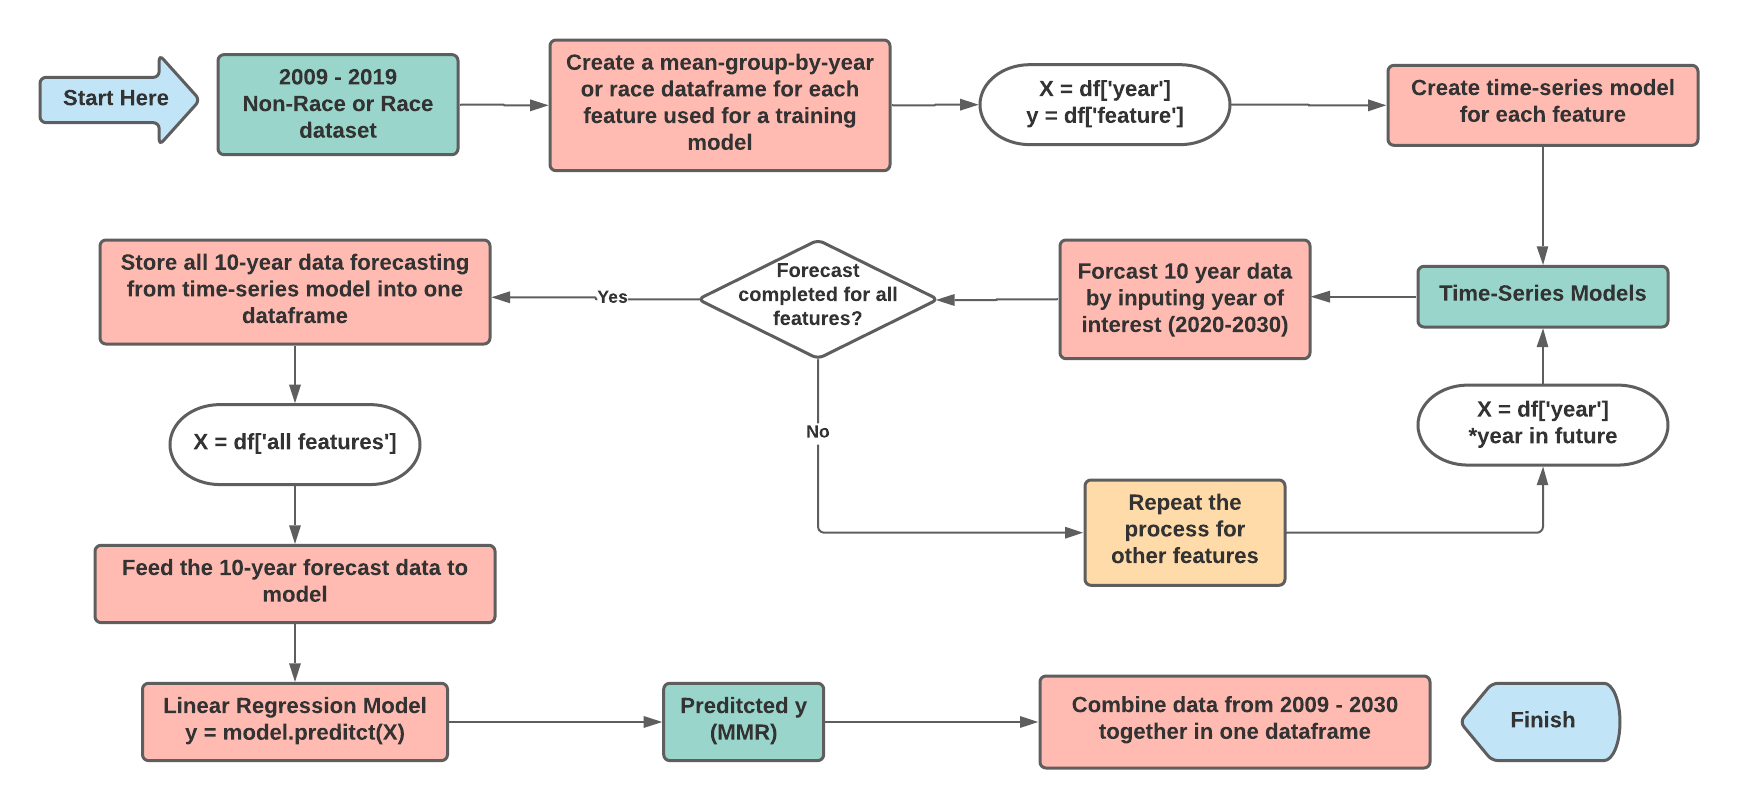
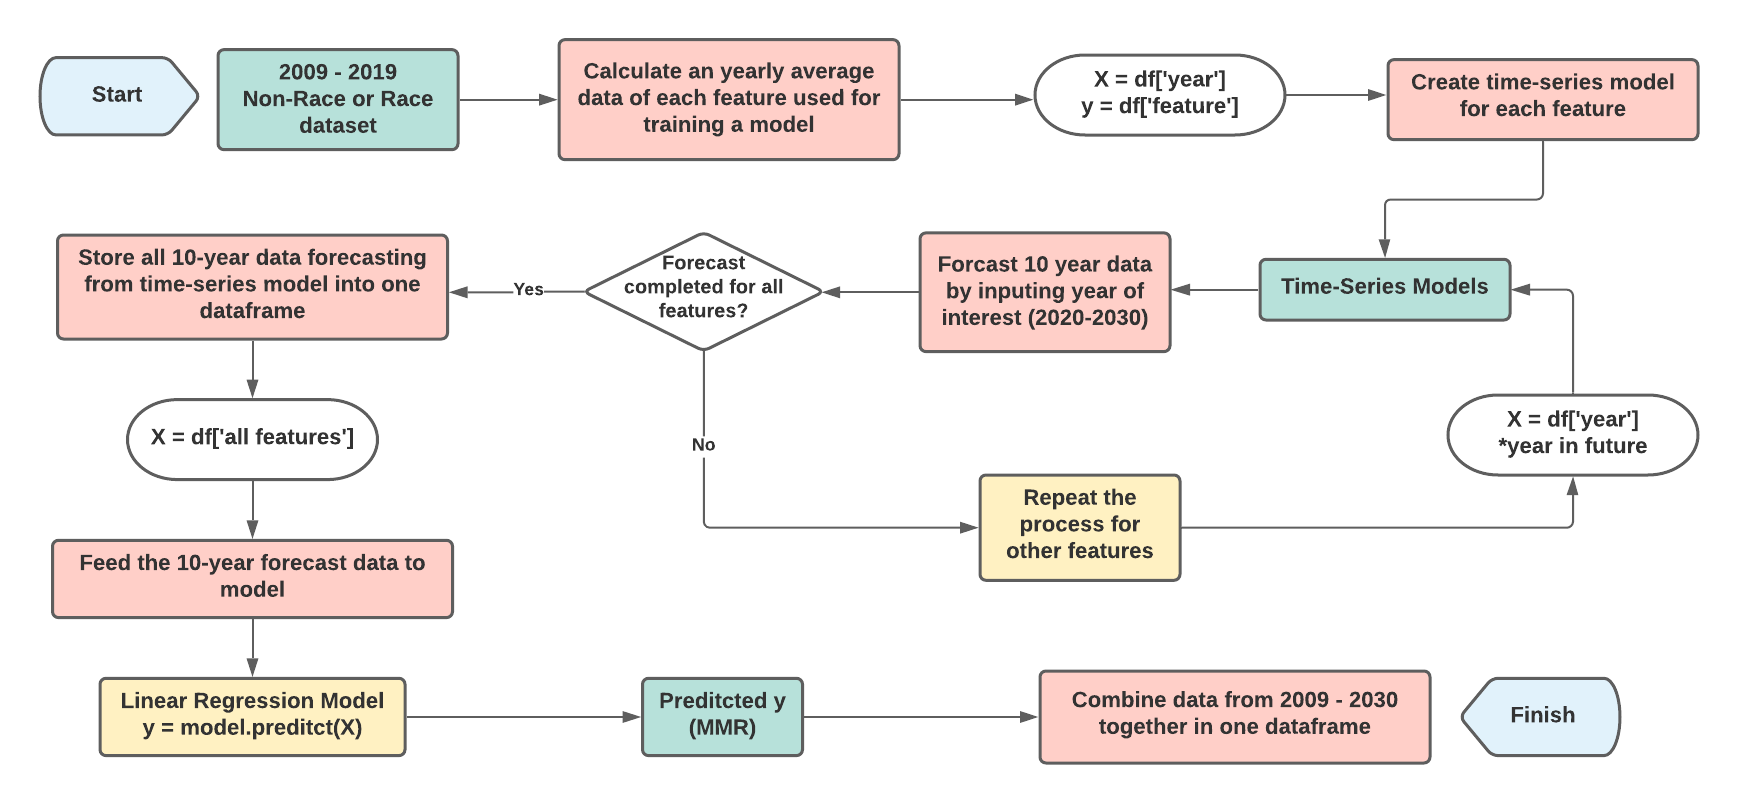
Forecast Summary

diff --git a/templates/machine-learning-forecast.html b/templates/machine-learning-forecast.html
@@ -64,7 +64,8 @@
                         <li class="dropdown-header">
                             <span>Predictions</span>
                         </li>
-                        <li><a class="dropdown-item" href="/machine-learning-playground">Health Measure Playground</a></li>
+                        <li><a class="dropdown-item" href="/machine-learning-playground">Health Measure Playground</a>
+                        </li>
                         <li><a class="dropdown-item" href="/machine-learning-forecast">10-Year US MMR Forecast</a></li>
                     </ul>
                 </li>
@@ -106,7 +107,7 @@
                 <div id="overview">
                     <p>
                         The data forecasting flowchart below shows the process of data establishment in order to input
-                        into machine learning model to predict matermal mortality ratio (MMR) from 2020 to 2030.
+                        into a machine learning model to predict maternal mortality ratio (MMR) from 2020 to 2030.
                     </p>
                     <a href="static/img/ten_year_forecast_flowchart.png"><img width="100%"
                             src="static/img/ten_year_forecast_flowchart.png" /></a>
@@ -122,18 +123,18 @@
         <!-- 10-year Forecast -->
         <div class="row">
             <div class="col-12 col-sm-12 col-md-12 col-lg-12 col-xl-12 col-xxl-12">
-                <h3>Dataset Stratified by Non-race and Non-ethnicity Summary</h3>
+                <h3>Dataset Stratified by Non-Race and Non-Ethnicity Summary</h3>
                 <hr>
-                <article>
+                <p>
                     As the graph presented below, it shows maternal mortality ratio (MMR) from 2009 to 2030. MMR
                     from 2009 to 2019 is an average value across the
                     entire dataset grouped by year. MMR from 2020 to 2030 is calculated by machine learning linear
-                    regression and time-series models based on other factors calculated by time-series model. For both
+                    regression and time-series models based on other factors calculated by time-series models. For both
                     time-series and linear regression (LR) models predict that
                     U.S.'s MMR will increase in the future. LR predicts MMR in 2030 at 45.2 which is approximately 26%
                     increased from average MMR 2019. Addition, Time-series has predicted the MMR lower than LR by 3% at
                     the year of 2030.
-                </article>
+                </p>
                 <div id="forecast_graph_non_race"></div>
             </div>
         </div>
@@ -141,21 +142,32 @@
             <div class="col-12 col-sm-12 col-md-12 col-lg-12 col-xl-12 col-xxl-12">
                 <h3>Dataset Stratified by Race and Ethnicity Summary</h3>
                 <hr>
-                <article>
+                <p>
                     As the graph presented below, it shows maternal mortality ratio (MMR) from 2009 to 2030 for each
                     race and ethnicity. MMR from 2009 to 2030 is an average value across the entire dataset grouped by
                     year, race and ethnicity. MMR from 2020 to 2030 is calculated by machine learning linear
-                    regression models based on population by race and ethnicity whice is calculated by time-series
+                    regression models based on population by race and ethnicity which is calculated by time-series
                     model. The line graphs show that MMR for every race and ethnicity will decrease. However, there is
-                    only one factor used to predict MMR; population. The population tends to increase at a reduced rate.
-                    That might be a reason of the decresing of MMR for all race and ethnicity.
-                </article>
+                    only one factor, population by race used to predict MMR. The population tends to increase at a
+                    reduced rate.
+                    That might be a reason for the decreasing of MMR for each race and ethnicity.
+                </p>
                 <div id="forecast_graph_race"></div>
             </div>
         </div>
+        <div class="row">
+            <div class="col-12 col-sm-12 col-md-12 col-lg-12 col-xl-12 col-xxl-12">
+                <h3>Forecast Summary</h3>
+                <hr>
+                <p>
+                    The future prediction for each year for both data stratified or not stratified by race and ethnicity
+                    shows the straight line because the prediction is calculated by linear regression model. The models
+                    have moderate accuracy of prediction which
+                </p>
+            </div>
+        </div>
     </div>
-    </div>
-    </div>
+
 
     <!--Footer-->
     <footer>

diff --git a/static/js/ten_year_forecast.js b/static/js/ten_year_forecast.js
@@ -164,7 +164,7 @@ function race_graph() {
         var data = [black, white_his, white_non, asian];
 
         var layout = {
-            title: "<b>MMR 2009 - 2030: Race and Ethnicity</b>",
+            title: "<b>MMR 2009 - 2030: Particular Race and Ethnicity</b>",
             yaxis: {
                 title: "<b>MMR</b>"
             },
